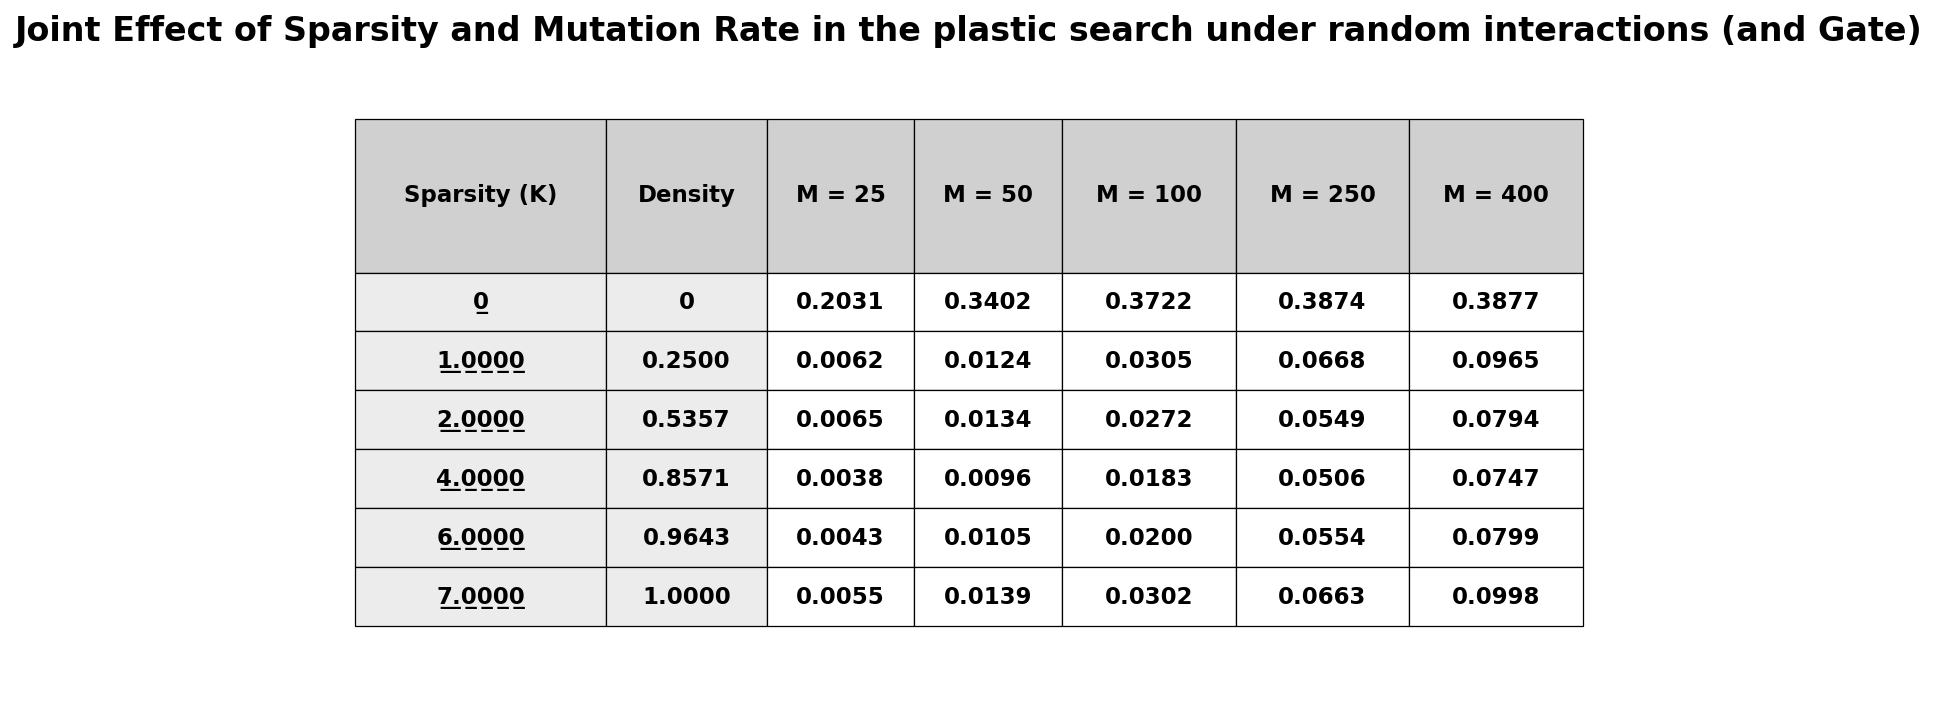
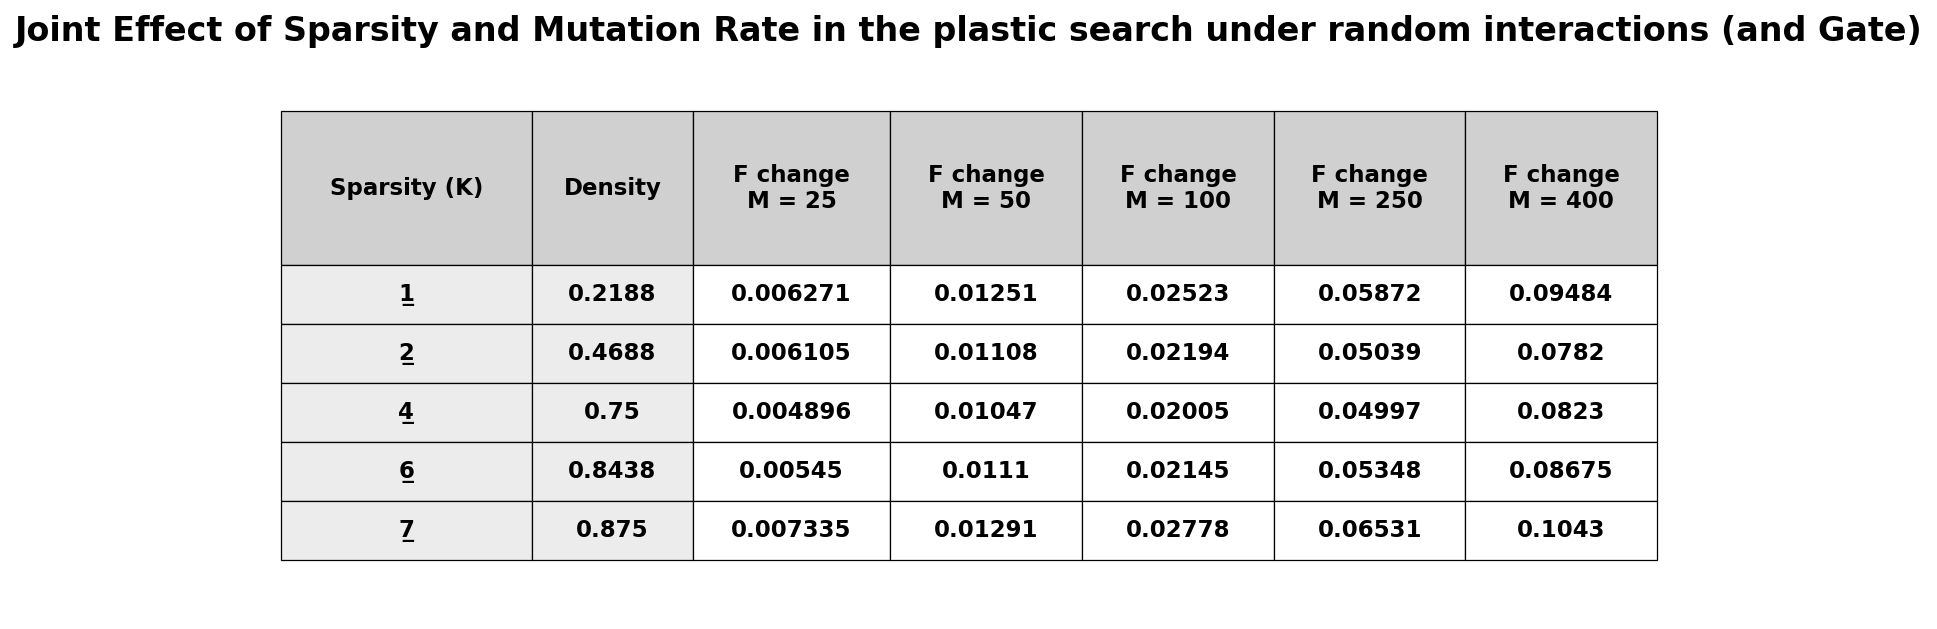
Experiment 6 cleanup

Changed region(s): [[0.1239, 0.151, 0.8673, 0.9062], [0.0, 0.0, 0.9912, 0.0906], [0.1549, 0.876, 0.1859, 0.9062]]

diff --git a/Experiment6.py b/Experiment6.py
@@ -12,7 +12,7 @@ from Config import Config, make_rng, with_mask, ENERGY_GATES
 from Data import S1
 from Interactions import (appropriate_interactions,
                           random_interactions)
-from GRN import sparse_topology, masked_matrix
+from GRN import sparse_topology, masked_matrix, diag_mask
 from Interactions import adjust_interaction_magnitude
 from Plastic_Induction import plastic_search
 from GRN import handle_develop
@@ -36,7 +36,7 @@ if __name__ == "__main__":
         figures_output = "Experiment6"
     )
  
-    mutations = [25, 50, 100, 250, 400]
+    MUTATIONS = [25, 50, 100, 250, 400]
  
     # Generate the starting profile (Constant used for all interaction matricies)
     G = make_rng(base.seed).uniform(low = -1, high = 1, size = base.N)
@@ -46,9 +46,9 @@ if __name__ == "__main__":
     masks = []
     # K is the out-degree BEFORE symmetrisation, so it cannot exceed N-1.
     # K = N-1 is fully dense; small K leaves few active interactions.
-    sparsities = [0, 1, 2, 4, 6, base.N - 1]
+    SPARSITIES = [1, 2, 4, 6, base.N - 1]
  
-    for K in sparsities:
+    for K in SPARSITIES:
         base_K = replace(base, K = K)
         mask = sparse_topology(base_K, make_rng(base.seed))
         masks.append(mask)
@@ -59,12 +59,12 @@ if __name__ == "__main__":
     """Test the Plastic search for a range of different initialised interaction matricies"""
  
     # Replicable functionality for running the experiment
-    def _experiment6(base: Config, measurement: str = "align_change", gate: str = "or"):
+    def _experiment6(base: Config, measurement: str = "align_change", gate: str = "or", n_seeds: int = 8):
 
         # Create the column titles using the name of the measurement
-        measurement_str = measurement.replace('_', ' ').strip().upper()
+        measurement_str = measurement.replace('_', ' ').strip().lower().capitalize()
 
-        MUTATION_TITLES = tuple(f"{measurement_str}\nM = {M}" for M in mutations)
+        MUTATION_TITLES = tuple(f"{measurement_str}\nM = {M}" for M in MUTATIONS)
  
         COLUMN_TITLES = (
             "Sparsity (K)",
@@ -77,13 +77,13 @@ if __name__ == "__main__":
 
     
         # Set the Energy gate
-        cfg = replace(cfg, energy_gate = gate)
+        cfg = replace(base, energy_gate = gate)
  
  
-        for mask, K in zip(masks, sparsities):
+        for mask, K in zip(masks, SPARSITIES):
 
             # Config is a frozen dataclass: build a new one per cell.
-            cfg = replace(with_mask(base, mask), K = K)
+            cfg = replace(with_mask(cfg, mask), K = K)
  
             # Re-mask B to this topology
             BK = masked_matrix(B, mask)
@@ -93,25 +93,34 @@ if __name__ == "__main__":
  
              
             # Run the Plastic search for a sweep of energy gate protocols
-            P = handle_develop(G, BK, base, induction = False) # Develop the Phenotype as the base for the plastic search
+            P = handle_develop(G, BK, cfg, induction = False) # Develop the Phenotype as the base for the plastic search
 
 
-            # Generates three new rows in the table for each magntiude Y
-            density = float(mask.sum()) / float(cfg.N * (cfg.N - 1))
+            # Generate new row in the table
+            density = float(mask.sum()) / float(cfg.N * (cfg.N - 1)) if cfg.self_interaction else float(mask.sum()) / float(cfg.N ** 2)
             row_data = [K, density]
 
 
             # Save the search data for the current row for the alignment under different mutation rates
-            for M in mutations:
+            for M in MUTATIONS:
 
                 # Alter the mutation rate
                 cfg = replace(cfg, M = M)
 
-                # Perform the plastic search - This search doesn't alter B; Fresh stream per gate, so the gates are compared on identical draws.
-                history = plastic_search(B = BK, P = P, cfg = cfg, rng = make_rng(cfg.seed), limit_return = True)
 
-                # Append the aligment change for the mutation rate (M)
-                row_data.append(history[measurement])
+                # Run the experiment multiple times for robustness
+                a = 0
+
+                for i in range(0, n_seeds):
+
+                    # Perform the plastic search - This search doesn't alter B; Fresh stream per gate, so the gates are compared on identical draws.
+                    history = plastic_search(B = BK, P = P, cfg = cfg, rng = make_rng(cfg.seed + i), limit_return = True)
+                    a += history[measurement]
+
+
+                # Append the measurement for the mutation rate (M)
+                data = a / n_seeds
+                row_data.append(data)
 
 
             # Collect the row data
@@ -143,6 +152,9 @@ if __name__ == "__main__":
         """Builder that simply returns the matrix (mask is set later)."""
  
         def wrapped(cfg, rng):
+            
+            if cfg.self_interaction:
+                cfg = with_mask(cfg, diag_mask(cfg.N))
             
  
             return build(cfg, rng)

diff --git a/Plotting.py b/Plotting.py
@@ -59,7 +59,7 @@ def plot_interaction_trajectories(result: dict, saveloc: str, title: str = None)
     fig.savefig(saveloc, dpi = 150)
     plt.close(fig)
  
-
+ 
  
  
 def plot_measure_surfaces(
@@ -186,31 +186,53 @@ def plot_measure_surfaces(
     fig.suptitle(title, fontsize = 12, y = 1.06)
     fig.savefig(saveloc, dpi = 150, bbox_inches = "tight")
     plt.close(fig)
-
-
-
-
-def _fmt(v):
+ 
+ 
+ 
+ 
+def _fmt(v, sig: int = 4, lo: float = 1e-6, hi: float = 1e7):
+    """
+    Table-cell formatting that keeps `sig` SIGNIFICANT digits.
+ 
+    The previous rule used "%.2e" outside a narrow band, which keeps only three
+    significant digits, so 1.234e-5 printed as "1.23e-05" and 12345.7 as
+    "1.23e+04".  Here anything in [lo, hi) is written in plain decimal with
+    however many places are needed for `sig` significant digits (trailing
+    zeros trimmed), and only genuinely extreme values fall back to
+    scientific notation.
+    """
  
     if isinstance(v, str):
  
         return v
-
+ 
  
     v = float(v)
-
- 
-    if v == 0.0:
- 
-        return "0"
-
- 
-    if abs(v) < 1e-3 or abs(v) >= 1e4:
- 
-        return f"{v:.2e}"
  
  
-    return f"{v:.4f}"
+    if v == 0.0 or not np.isfinite(v):
+ 
+        return "0" if v == 0.0 else str(v)
+ 
+ 
+    a = abs(v)
+ 
+ 
+    if lo <= a < hi:
+        # decimals needed so that `sig` significant digits survive
+        import math
+        decimals = max(0, sig - 1 - int(math.floor(math.log10(a))))
+        text = f"{v:.{decimals}f}"
+ 
+ 
+        if "." in text:
+            text = text.rstrip("0").rstrip(".")
+ 
+ 
+        return text or "0"
+ 
+ 
+    return f"{v:.{max(sig - 1, 0)}e}"
  
  
  
